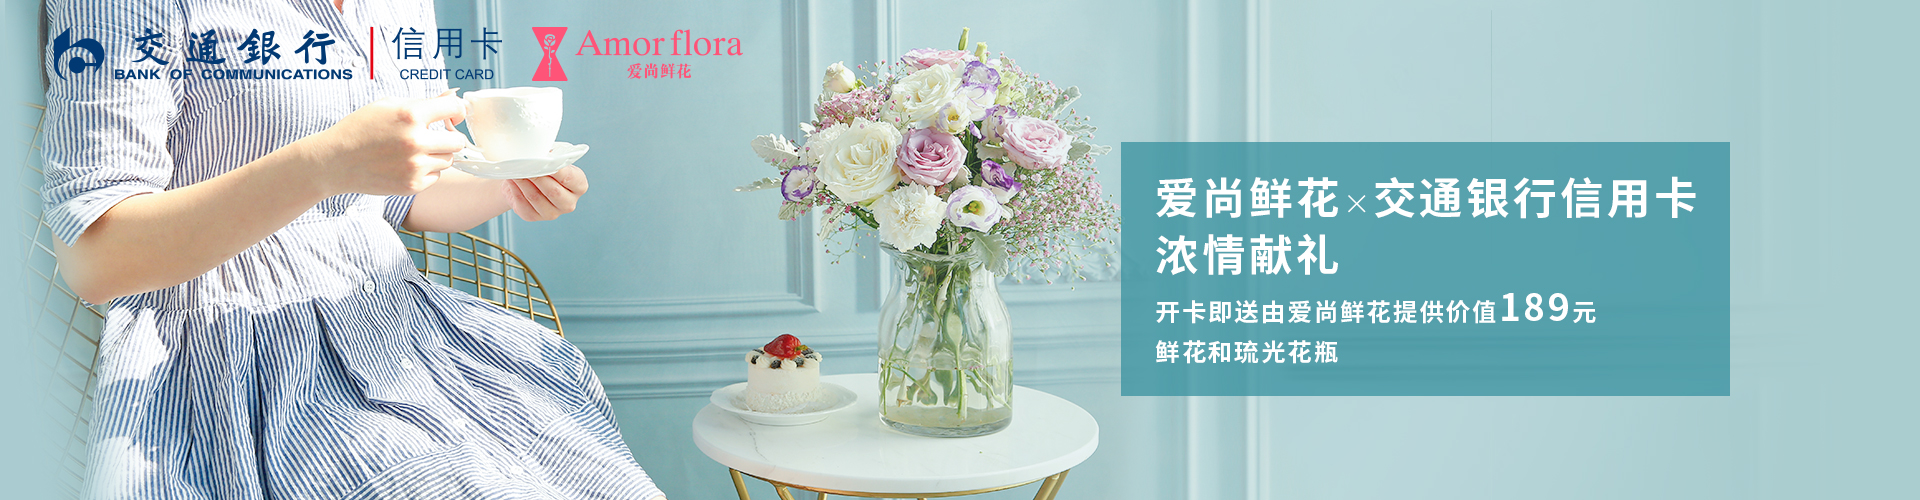
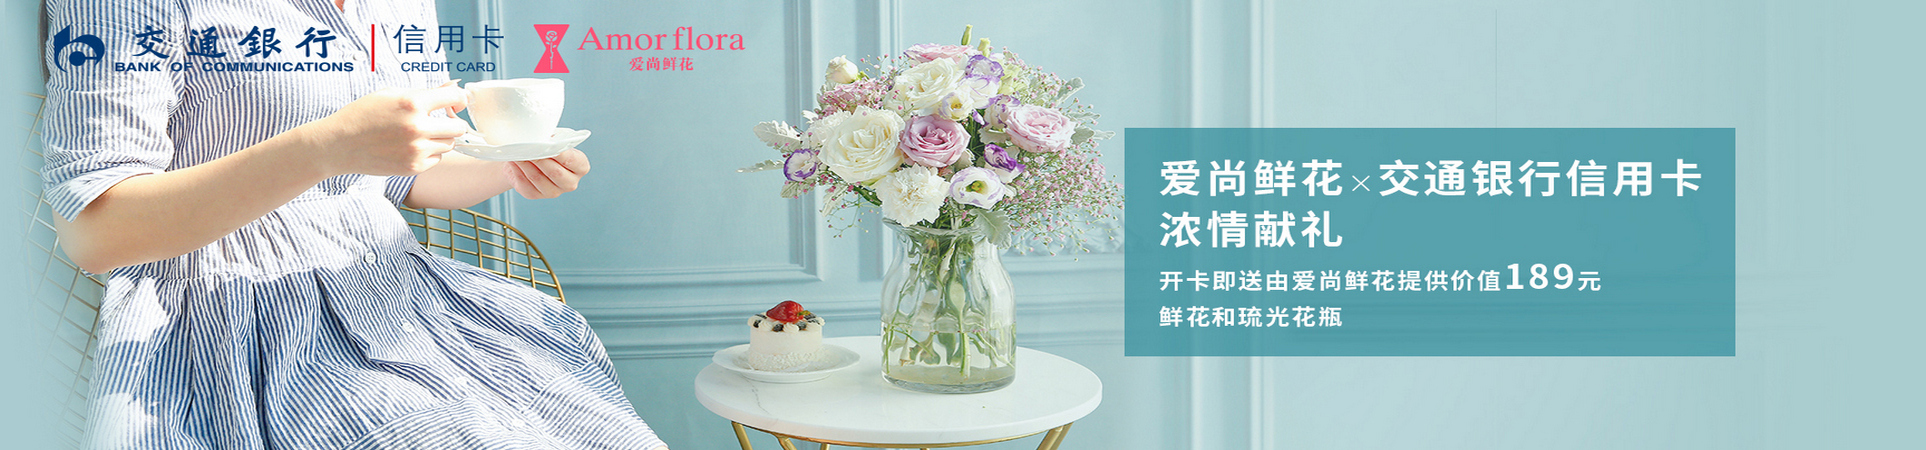
修改：解决了首页滚动图片尺寸显示不统一的问题。先是统一图片尺寸，再是调整carousel滚动区域高度。

diff --git a/src/main/resources/templates/user/header.html b/src/main/resources/templates/user/header.html
@@ -10,13 +10,13 @@
 <script src="js/bootstrap.min.js"></script>
 <style type="text/css">
      .carousel{
-         height: 350px; // 修改carousel滚动区域的高度
+         height: 450px; // 修改carousel滚动区域的高度
          background-color: #000;
       }
-      .carousel .item{ // 修改carousel滚动商品的图片高度
-         height: 300px;
-         background-color: #000;
-      }
+      /*.carousel .item{ // 修改carousel滚动商品的图片高度*/
+      /*   height: 450px;*/
+      /*   background-color: #000;*/
+      /*}*/
       .carousel img{
          width: 100%;
       }

diff --git a/src/main/resources/templates/user/index.html b/src/main/resources/templates/user/index.html
@@ -5,6 +5,7 @@
 <meta charset="UTF-8">
 <title>主页</title>
 <link rel="stylesheet" href="css/bootstrap.min.css" />
+	<link rel="shortcut icon" href="/favicon.ico" />
 <script src="js/jquery.min.js"></script>
 <script type="text/javascript" th:inline="javascript">
 	function focus(gid){
